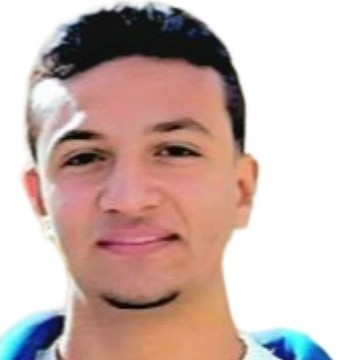
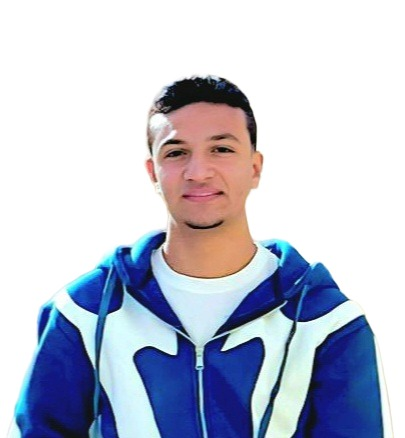
Improve mobile performance and responsive layout

diff --git a/src/data/projects.ts b/src/data/projects.ts
@@ -1,11 +1,19 @@
 import calculator from '../assets/images/ali-emad/calculator.jpg'
+import calculatorThumbnail from '../assets/images/ali-emad/optimized/calculator-thumb.jpg'
 import contacts from '../assets/images/ali-emad/contacts.jpg'
+import contactsThumbnail from '../assets/images/ali-emad/optimized/contacts-thumb.jpg'
 import evently from '../assets/images/ali-emad/evently.jpg'
+import eventlyThumbnail from '../assets/images/ali-emad/optimized/evently-thumb.jpg'
 import islami from '../assets/images/ali-emad/islami.jpg'
+import islamiThumbnail from '../assets/images/ali-emad/optimized/islami-thumb.jpg'
 import movies from '../assets/images/ali-emad/movies.jpg'
+import moviesThumbnail from '../assets/images/ali-emad/optimized/movies-thumb.jpg'
 import news from '../assets/images/ali-emad/news.jpg'
+import newsThumbnail from '../assets/images/ali-emad/optimized/news-thumb.jpg'
 import space from '../assets/images/ali-emad/space.jpg'
+import spaceThumbnail from '../assets/images/ali-emad/optimized/space-thumb.jpg'
 import tictactoe from '../assets/images/ali-emad/tictactoe.jpg'
+import tictactoeThumbnail from '../assets/images/ali-emad/optimized/tictactoe-thumb.jpg'
 
 export interface Project {
   no: string
@@ -13,6 +21,7 @@ export interface Project {
   description: string
   tags: string[]
   image: string
+  thumbnail: string
   featured?: boolean
 }
 
@@ -24,6 +33,7 @@ export const projects: Project[] = [
       'An everyday Islamic companion with Quran reading, search and last-read progress, Hadith, digital Tasbeeh, reciters, radio, prayer times, and daily Azkar.',
     tags: ['Flutter', 'Dart', 'REST API', 'Custom widgets'],
     image: islami,
+    thumbnail: islamiThumbnail,
     featured: true,
   },
   {
@@ -33,6 +43,7 @@ export const projects: Project[] = [
       'A personal event planner for creating, editing, favoriting, and organizing events, with Arabic and English plus light and dark themes.',
     tags: ['Flutter', 'Firebase', 'Cloud Firestore', 'Localization'],
     image: evently,
+    thumbnail: eventlyThumbnail,
   },
   {
     no: '03',
@@ -41,6 +52,7 @@ export const projects: Project[] = [
       'A bilingual news reader for browsing world stories by category, searching headlines, and choosing a comfortable language and theme.',
     tags: ['Flutter', 'Dio API', 'Arabic + English', 'Dark mode'],
     image: news,
+    thumbnail: newsThumbnail,
   },
   {
     no: '04',
@@ -49,6 +61,7 @@ export const projects: Project[] = [
       'A movie discovery experience with genre browsing, search, ratings, release dates, watchlists, viewing history, and profile management.',
     tags: ['Flutter', 'REST API', 'Firebase Auth', 'Watchlist'],
     image: movies,
+    thumbnail: moviesThumbnail,
   },
   {
     no: '05',
@@ -57,6 +70,7 @@ export const projects: Project[] = [
       'An interactive tour of the solar system, pairing planet facts with immersive 3D models and an easy-to-explore mobile interface.',
     tags: ['Flutter', 'Dart', '3D models', 'Responsive UI'],
     image: space,
+    thumbnail: spaceThumbnail,
   },
   {
     no: '06',
@@ -65,6 +79,7 @@ export const projects: Project[] = [
       'A simple contact manager for adding, editing, removing, and finding saved contacts, with form validation and local storage.',
     tags: ['Flutter', 'CRUD', 'Local storage', 'Validation'],
     image: contacts,
+    thumbnail: contactsThumbnail,
   },
   {
     no: '07',
@@ -73,6 +88,7 @@ export const projects: Project[] = [
       'A two-player X/O game with turn-based play, automatic winner and draw detection, and clear feedback on every move.',
     tags: ['Flutter', 'Dart', 'Game logic', 'Custom widgets'],
     image: tictactoe,
+    thumbnail: tictactoeThumbnail,
   },
   {
     no: '08',
@@ -81,5 +97,6 @@ export const projects: Project[] = [
       'A focused calculator for everyday arithmetic, with a clean keypad, responsive layout, and clear handling of invalid operations.',
     tags: ['Flutter', 'Dart', 'Math logic', 'Responsive UI'],
     image: calculator,
+    thumbnail: calculatorThumbnail,
   },
 ]

diff --git a/src/components/sections/Hero.tsx b/src/components/sections/Hero.tsx
@@ -16,6 +16,7 @@ function useStagger(delay: number) {
 
 export function Hero() {
   const prefersReduced = useReducedMotion()
+  const reduceAmbientMotion = Boolean(prefersReduced) || window.matchMedia('(pointer: coarse)').matches
   const px = useMotionValue(50)
   const py = useMotionValue(50)
   const spotX = useSpring(px, { stiffness: 60, damping: 20 })
@@ -86,49 +87,49 @@ export function Hero() {
         >
           <motion.div
             className={styles.glowPulse}
-            animate={prefersReduced ? undefined : { opacity: [0.5, 0.9, 0.5], scale: [1, 1.06, 1] }}
+            animate={reduceAmbientMotion ? undefined : { opacity: [0.5, 0.9, 0.5], scale: [1, 1.06, 1] }}
             transition={{ duration: 5, ease: 'easeInOut', repeat: Infinity }}
           />
           <motion.div
             className={styles.ring}
-            animate={prefersReduced ? undefined : { rotate: -360 }}
+            animate={reduceAmbientMotion ? undefined : { rotate: -360 }}
             transition={{ duration: 60, ease: 'linear', repeat: Infinity }}
           />
           <motion.div
             className={`${styles.blob} ${styles.b1}`}
-            animate={prefersReduced ? undefined : { rotate: 360 }}
+            animate={reduceAmbientMotion ? undefined : { rotate: 360 }}
             transition={{ duration: 40, ease: 'linear', repeat: Infinity }}
           />
           <motion.div
             className={`${styles.blob} ${styles.b2}`}
-            animate={prefersReduced ? undefined : { rotate: -360 }}
+            animate={reduceAmbientMotion ? undefined : { rotate: -360 }}
             transition={{ duration: 46, ease: 'linear', repeat: Infinity }}
           />
           <motion.div
             className={`${styles.blob} ${styles.b3}`}
-            animate={prefersReduced ? undefined : { rotate: 360 }}
+            animate={reduceAmbientMotion ? undefined : { rotate: 360 }}
             transition={{ duration: 34, ease: 'linear', repeat: Infinity }}
           />
           <motion.div
             className={styles.photoWrap}
-            animate={prefersReduced ? undefined : { y: [0, -12, 0] }}
+            animate={reduceAmbientMotion ? undefined : { y: [0, -12, 0] }}
             transition={{ duration: 6, ease: 'easeInOut', repeat: Infinity }}
           >
             <img src={heroPhoto} alt="Ali Emad, Flutter Mobile Developer" className={styles.photo} />
           </motion.div>
           <motion.span
             className={`${styles.sparkle} ${styles.sparkle1}`}
-            animate={prefersReduced ? undefined : { opacity: [0, 1, 0], scale: [0.6, 1, 0.6] }}
+            animate={reduceAmbientMotion ? undefined : { opacity: [0, 1, 0], scale: [0.6, 1, 0.6] }}
             transition={{ duration: 3.2, ease: 'easeInOut', repeat: Infinity, delay: 0.4 }}
           />
           <motion.span
             className={`${styles.sparkle} ${styles.sparkle2}`}
-            animate={prefersReduced ? undefined : { opacity: [0, 1, 0], scale: [0.6, 1, 0.6] }}
+            animate={reduceAmbientMotion ? undefined : { opacity: [0, 1, 0], scale: [0.6, 1, 0.6] }}
             transition={{ duration: 3.6, ease: 'easeInOut', repeat: Infinity, delay: 1.6 }}
           />
           <motion.span
             className={styles.floatTag}
-            animate={prefersReduced ? undefined : { y: [0, -8, 0] }}
+            animate={reduceAmbientMotion ? undefined : { y: [0, -8, 0] }}
             transition={{ duration: 4, ease: 'easeInOut', repeat: Infinity }}
           >
             // building with Flutter

diff --git a/src/components/sections/Projects.tsx b/src/components/sections/Projects.tsx
@@ -29,7 +29,12 @@ function ProjectCard({
         aria-label={`View ${project.title} project image`}
       />
       <div className={styles.cardImg}>
-        <img src={project.image} alt={`${project.title} mobile app screens`} loading="lazy" />
+        <img
+          src={project.thumbnail}
+          alt={`${project.title} mobile app screens`}
+          loading="lazy"
+          decoding="async"
+        />
         <span className={styles.cardNo}>{project.no}</span>
         <span className={styles.cardView}>View image <FiMaximize2 /></span>
       </div>
@@ -80,7 +85,12 @@ export function Projects() {
             onClick={() => setSelectedProject(featuredProject)}
             aria-label={`View ${featuredProject.title} project image`}
           >
-            <img src={featuredProject.image} alt="Islami app interface previews" />
+            <img
+              src={featuredProject.thumbnail}
+              alt="Islami app interface previews"
+              loading="lazy"
+              decoding="async"
+            />
             <span className={styles.imageLabel}>Featured app · 01</span>
             <span className={styles.featuredPreview}>View image <FiMaximize2 /></span>
           </button>

diff --git a/src/components/layout/Navbar.tsx b/src/components/layout/Navbar.tsx
@@ -69,8 +69,11 @@ export function Navbar() {
           </div>
 
           <button
+            type="button"
             className={`${styles.burger} ${open ? styles.burgerOpen : ''}`}
-            aria-label="Menu"
+            aria-label={open ? 'Close navigation menu' : 'Open navigation menu'}
+            aria-expanded={open}
+            aria-controls="mobile-navigation"
             onClick={() => setOpen((v) => !v)}
           >
             <span />
@@ -83,11 +86,17 @@ export function Navbar() {
       <AnimatePresence>
         {open && (
           <motion.div
+            id="mobile-navigation"
             className={styles.overlay}
+            role="navigation"
+            aria-label="Mobile navigation"
             initial={{ opacity: 0 }}
             animate={{ opacity: 1 }}
             exit={{ opacity: 0 }}
             transition={{ duration: 0.35 }}
+            onClick={(event) => {
+              if (event.target === event.currentTarget) setOpen(false)
+            }}
           >
             {LINKS.map((link, i) => (
               <motion.a

diff --git a/src/components/sections/Hero.module.css b/src/components/sections/Hero.module.css
@@ -159,7 +159,7 @@
 .photoWrap {
   position: relative;
   z-index: 2;
-  width: 82%;
+  width: 70%;
   aspect-ratio: 1/1;
   overflow: hidden;
   border: 3px solid rgba(73, 221, 228, 0.42);
@@ -172,6 +172,7 @@
   width: 100%;
   height: 100%;
   object-fit: cover;
+  object-position: center 24%;
   transform: scale(1.06) translateY(1.5%);
   transform-origin: center 18%;
 }
@@ -254,6 +255,24 @@
 @media (max-width: 420px) {
   .art {
     max-width: 220px;
+  }
+}
+
+@media (hover: none) and (pointer: coarse) {
+  .spotlight {
+    display: none;
+  }
+  .glowPulse {
+    filter: blur(16px);
+  }
+  .blob {
+    animation: none;
+    filter: blur(4px);
+    mix-blend-mode: normal;
+    opacity: 0.62;
+  }
+  .noise {
+    animation: none;
   }
 }
 

diff --git a/src/components/ui/Marquee.tsx b/src/components/ui/Marquee.tsx
@@ -11,12 +11,13 @@ interface MarqueeProps {
 
 export function Marquee({ children, direction = 'left', duration = 26, className }: MarqueeProps) {
   const prefersReduced = useReducedMotion()
+  const disableAnimation = Boolean(prefersReduced) || window.matchMedia('(pointer: coarse)').matches
 
   return (
     <div className={`${styles.track} ${className ?? ''}`}>
       <motion.div
         className={styles.inner}
-        animate={prefersReduced ? undefined : { x: direction === 'left' ? ['0%', '-50%'] : ['-50%', '0%'] }}
+        animate={disableAnimation ? undefined : { x: direction === 'left' ? ['0%', '-50%'] : ['-50%', '0%'] }}
         transition={{ duration, ease: 'linear', repeat: Infinity }}
       >
         {children}

diff --git a/index.html b/index.html
@@ -10,7 +10,7 @@
     <link rel="preconnect" href="https://fonts.googleapis.com" />
     <link rel="preconnect" href="https://fonts.gstatic.com" crossorigin />
     <link
-      href="https://fonts.googleapis.com/css2?family=Anton&family=Bebas+Neue&family=DM+Sans:ital,wght@0,300;0,400;0,500;0,700;1,400&family=DM+Serif+Display:ital@0;1&family=Space+Mono:ital,wght@0,400;0,700;1,400&display=swap"
+      href="https://fonts.googleapis.com/css2?family=Anton&family=Bebas+Neue&family=DM+Sans:wght@400;500;600;700&family=DM+Serif+Display:ital@0;1&family=Space+Mono:wght@400;700&display=swap"
       rel="stylesheet"
     />
   </head>

diff --git a/src/components/layout/Navbar.module.css b/src/components/layout/Navbar.module.css
@@ -1,7 +1,7 @@
 .nav {
   position: fixed;
   inset: 0 0 auto 0;
-  z-index: 100;
+  z-index: 120;
   transition: background 0.4s var(--ease), border-color 0.4s var(--ease), backdrop-filter 0.4s var(--ease);
   border-bottom: 1px solid transparent;
 }
@@ -136,5 +136,16 @@
   }
   .burger {
     display: flex;
+  }
+}
+
+@media (hover: none) and (pointer: coarse) {
+  .scrolled {
+    background: rgba(8, 12, 25, 0.96);
+    backdrop-filter: none;
+    -webkit-backdrop-filter: none;
+  }
+  .overlay {
+    backdrop-filter: none;
   }
 }

diff --git a/src/components/layout/Preloader.tsx b/src/components/layout/Preloader.tsx
@@ -7,7 +7,9 @@ const easeOut = [0.22, 0.61, 0.36, 1] as const
 
 function shouldShowIntro() {
   if (typeof window === 'undefined') return false
-  if (window.matchMedia('(prefers-reduced-motion: reduce)').matches) return false
+  const prefersReduced = window.matchMedia('(prefers-reduced-motion: reduce)').matches
+  const isTouchDevice = window.matchMedia('(pointer: coarse)').matches
+  if (prefersReduced || isTouchDevice) return false
   return sessionStorage.getItem(SESSION_KEY) !== '1'
 }
 

diff --git a/src/hooks/useLenis.ts b/src/hooks/useLenis.ts
@@ -4,7 +4,8 @@ import Lenis from 'lenis'
 export function useLenis() {
   useEffect(() => {
     const prefersReduced = window.matchMedia('(prefers-reduced-motion: reduce)').matches
-    if (prefersReduced) return
+    const isTouchDevice = window.matchMedia('(pointer: coarse)').matches
+    if (prefersReduced || isTouchDevice) return
 
     const lenis = new Lenis({
       duration: 0.6,

diff --git a/src/components/ui/TiltCard.module.css b/src/components/ui/TiltCard.module.css
@@ -35,6 +35,13 @@
   transform: translateZ(20px);
 }
 
+@media (hover: none) and (pointer: coarse) {
+  .card {
+    backdrop-filter: none;
+    -webkit-backdrop-filter: none;
+  }
+}
+
 @media (prefers-reduced-motion: reduce) {
   .card {
     transform: none !important;

diff --git a/src/components/sections/Contact.module.css b/src/components/sections/Contact.module.css
@@ -181,3 +181,14 @@
     padding: 28px 22px;
   }
 }
+
+@media (hover: none) and (pointer: coarse) {
+  .chip,
+  .formCard {
+    backdrop-filter: none;
+    -webkit-backdrop-filter: none;
+  }
+  .formCard {
+    background: rgba(16, 25, 43, 0.88);
+  }
+}
